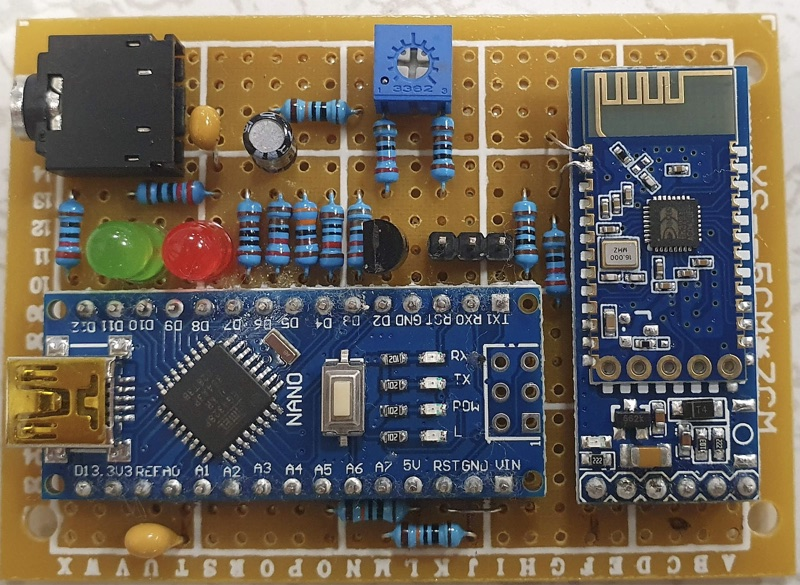
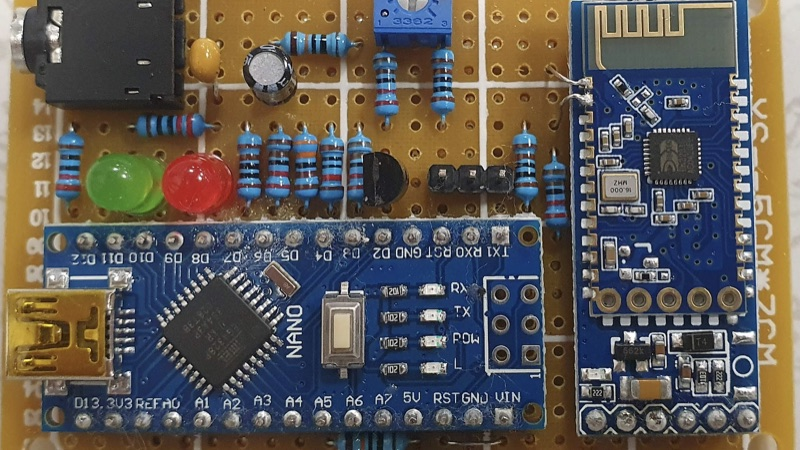
minor amends

diff --git a/teardowns.html b/teardowns.html
@@ -4,12 +4,6 @@ title: Teardowns
 permalink: /teardowns/
 ---
 
-<p class="page-intro">
-  A product's bill of materials is an argument about what mattered to the people
-  who built it. These teardowns are me reading that argument — which sensors they
-  picked and why, where the cost went, and what I'd have done differently.
-</p>
-
 {%- assign teardowns = site.teardowns | sort: "date" | reverse -%}
 {%- if teardowns.size == 0 -%}
 <p class="page-intro"><em>First teardown in progress — check back shortly.</em></p>

diff --git a/_teardowns/meisei-ims-100-radiosonde.md b/_teardowns/meisei-ims-100-radiosonde.md
@@ -3,8 +3,7 @@ title: "Teardown: Meisei iMS-100 eco GPS radiosonde"
 date: 2026-09-20
 device: "Meisei iMS-100 eco"
 summary: >-
-  A recovered Singapore weather-balloon radiosonde, traced part by part to work
-  out what each block actually does.
+  A recovered Singapore weather-balloon radiosonde, traced part by part to work out what each block actually does.
 thumbnail: /assets/teardowns/radiosonde/unit.jpg
 tags: [radiosonde, amateur-radio, sensors, RF, teardown]
 ---
